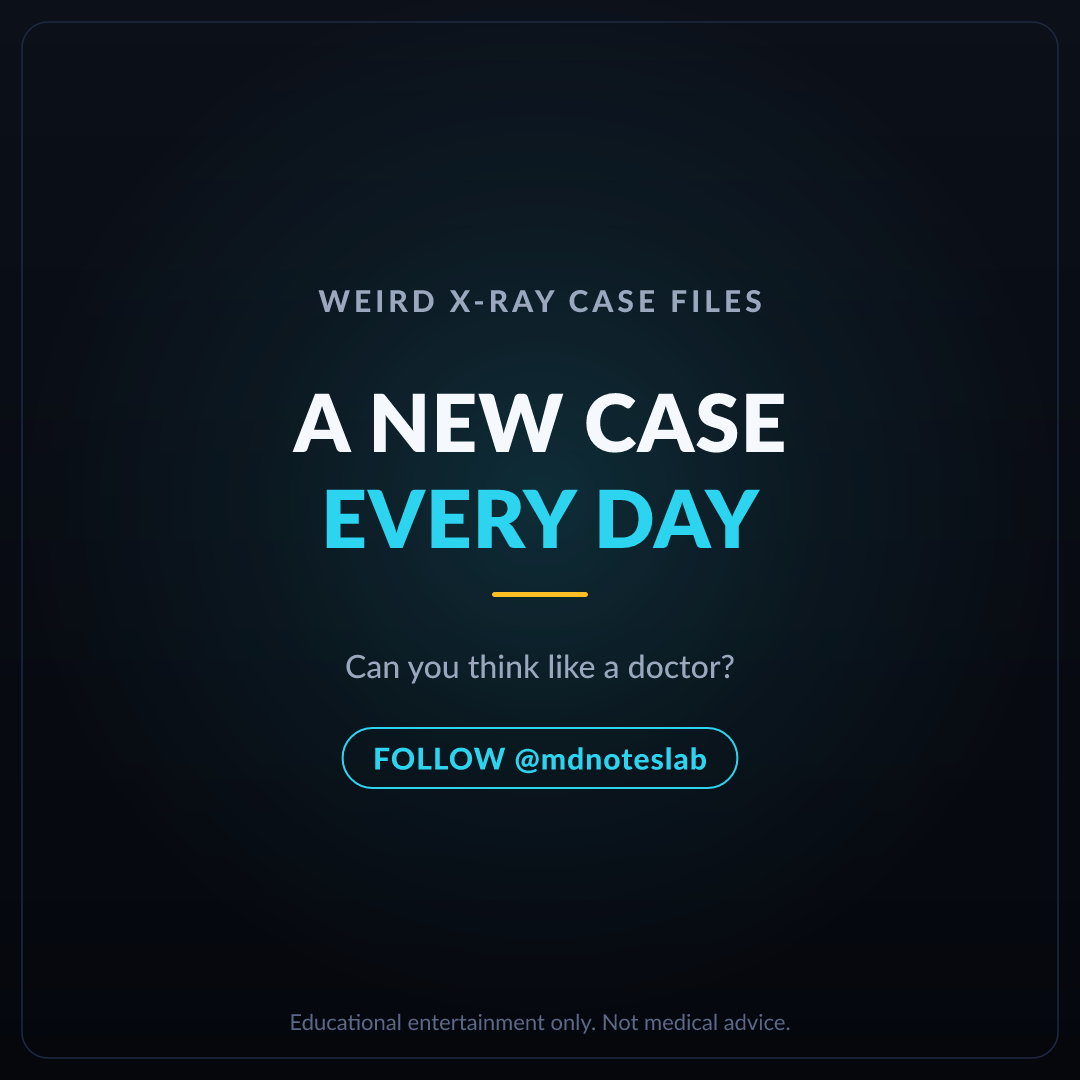
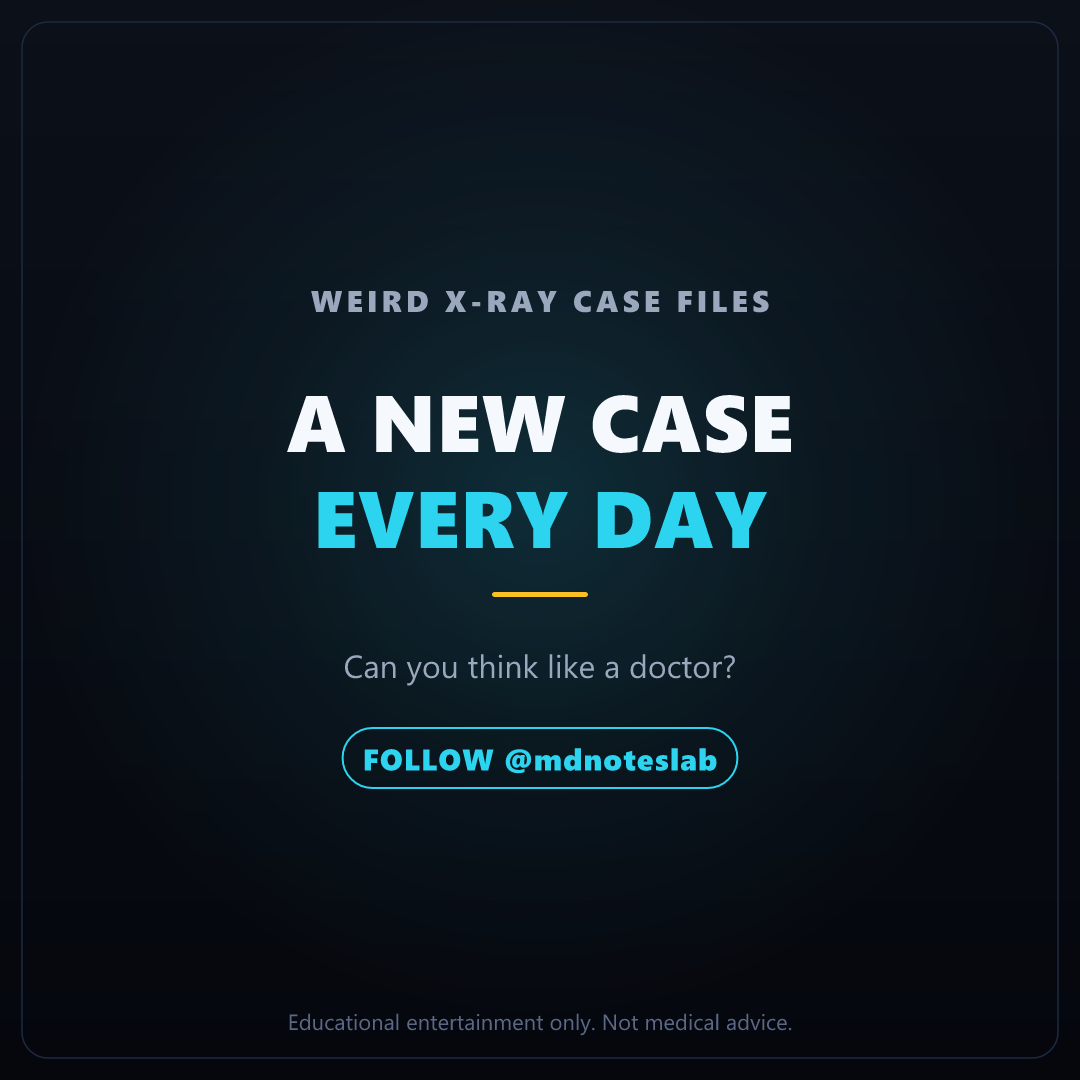
feat: single <=500 answer+spoiler, IG agreed format, renumber, CTA under live answer
- Answer is now ONE reply <=500 chars (keeps the sections that fit; full 4-part
  breakdown stays on the IG slide), posted with the diagnosis+breakdown blurred
  as a SPOILER on future posts.
- IG caption rebuilt to the owner's exact agreed format: blank line between every
  line, no emojis, em-dashes -> hyphen. AI hook + breakdown run through cleanPunct.
- CTA now threads under the LIVE "Answer:" comment (handles the owner posting/pinning
  their own answer and deleting the bot's).
- Renumber: today's posted Ollier case = Case 2 (each case +1).
- Seed used-diagnoses with the full V1/V2/rarest history so generated cases never repeat.
- Tighten the publisher poll to 5 min so posts land closer to 10 PM.

diff --git a/src/captions.ts b/src/captions.ts
@@ -65,51 +65,30 @@ export async function generateThreadsAnswer(c: Case): Promise<string> {
     takeaway = takeaway ?? draft.takeaway;
   }
 
-  // Each section keeps its heading on its own line above the body; sections are
-  // separated by a blank line. The publisher splits this into a <=500-char Threads
-  // chain at post time via splitForThreads (Threads caps each post/reply at 500).
+  // Threads caps each reply at config.answerMaxChars (500), and the answer must be ONE
+  // reply (no chains). Build a single reply that includes as many WHOLE sections as fit
+  // (priority = declaration order); the full 4-section breakdown always lives on the IG
+  // answer slide, which has no length limit.
+  const head = `Answer: ${c.diagnosis}`;
   const sections = [
     `👀 What you see:\n${whatYouSee}`,
     `🦴 Why it matters:\n${whyItMatters}`,
-    `💊 Treatment:\n${treatment}`,
     `📝 Takeaway:\n${takeaway}`,
+    `💊 Treatment:\n${treatment}`,
   ];
-  return [`Answer: ${c.diagnosis}`, ...sections].join("\n\n");
+  const out = [head];
+  let len = head.length;
+  for (const s of sections) {
+    if (len + 2 + s.length > config.answerMaxChars) continue; // skip overflow; a later shorter section may still fit
+    out.push(s);
+    len += 2 + s.length;
+  }
+  return out.join("\n\n");
 }
 
-/**
- * Threads caps each post/reply at config.answerMaxChars (500). A longer answer is posted
- * as a short self-reply CHAIN: split on blank-line (section) boundaries, packing whole
- * sections into each part; a single oversized section is hard-wrapped at a word boundary.
- */
-export function splitForThreads(text: string, max = config.answerMaxChars): string[] {
-  const blocks = text.split(/\n{2,}/).flatMap((b) => (b.length > max ? hardWrap(b, max) : [b]));
-  const parts: string[] = [];
-  let cur = "";
-  for (const b of blocks) {
-    const candidate = cur ? `${cur}\n\n${b}` : b;
-    if (candidate.length > max && cur) {
-      parts.push(cur);
-      cur = b;
-    } else {
-      cur = candidate;
-    }
-  }
-  if (cur) parts.push(cur);
-  return parts.length ? parts : [text.slice(0, max)];
-}
-
-function hardWrap(s: string, max: number): string[] {
-  const out: string[] = [];
-  let r = s.trim();
-  while (r.length > max) {
-    let cut = r.lastIndexOf(" ", max);
-    if (cut <= 0) cut = max;
-    out.push(r.slice(0, cut).trim());
-    r = r.slice(cut).trim();
-  }
-  if (r) out.push(r);
-  return out;
+/** Normalize AI-drafted punctuation: em/en dashes -> hyphen; collapse runs of spaces. */
+export function cleanPunct(s: string): string {
+  return s.replace(/\s*[—–]\s*/g, " - ").replace(/[ \t]{2,}/g, " ").trim();
 }
 
 interface Breakdown {
@@ -144,10 +123,10 @@ async function draftBreakdown(c: Case): Promise<Breakdown> {
   const parsed = parseJsonObject(raw);
 
   return {
-    whatYouSee: str(parsed.whatYouSee),
-    whyItMatters: str(parsed.whyItMatters),
-    treatment: str(parsed.treatment),
-    takeaway: str(parsed.takeaway),
+    whatYouSee: cleanPunct(str(parsed.whatYouSee)),
+    whyItMatters: cleanPunct(str(parsed.whyItMatters)),
+    treatment: cleanPunct(str(parsed.treatment)),
+    takeaway: cleanPunct(str(parsed.takeaway)),
   };
 }
 
@@ -156,31 +135,25 @@ async function draftBreakdown(c: Case): Promise<Breakdown> {
 // ---------------------------------------------------------------------------
 
 export async function generateIgCaption(c: Case): Promise<string> {
-  const igHook = await draftIgHook(c);
+  const hookLines = (await draftIgHook(c))
+    .split("\n")
+    .map((l) => cleanPunct(l))
+    .filter((l) => l.length > 0);
 
+  // Exact owner-agreed IG format: a blank line between EVERY line, no emojis.
   return [
-    `Case File ${pad2(c.number)}. 🩻`,
-    ``,
-    igHook,
-    ``,
+    `Case File ${pad2(c.number)}.`,
+    ...hookLines,
     `A real condition most people have never seen.`,
-    ``,
-    `So before you swipe: A, B, or C? 👉`,
-    ``,
-    `Swipe for the answer then tell me if you got it. 👇`,
-    ``,
+    `So before you swipe: A, B, or C?`,
+    `Swipe for the answer then tell me if you got it.`,
     `New weird X-ray case every single day.`,
-    ``,
-    `Follow along and you'll read scans like a doctor. 🧠`,
-    ``,
+    `Follow along and you'll read scans like a doctor.`,
     `Want the free 5-case starter pack?`,
-    ``,
     `Comment SAMPLE and I'll send it.`,
-    ``,
     `Educational entertainment only. Not medical advice.`,
-    ``,
     `#radiology #xray #spotthediagnosis #medicalmystery #medstudent`,
-  ].join("\n");
+  ].join("\n\n");
 }
 
 async function draftIgHook(c: Case): Promise<string> {
@@ -188,8 +161,8 @@ async function draftIgHook(c: Case): Promise<string> {
     "You write short, punchy Instagram hooks for a daily X-ray diagnosis challenge in the " +
     "voice of @mdnoteslab: curious, a little dramatic, never clickbait-fake. Write 2-3 short " +
     "lines (each its own line). Build intrigue around the case WITHOUT naming the diagnosis. " +
-    "Do NOT use commas: keep each line short or join clauses with 'and'. " +
-    "No hashtags, no emojis, no quotation marks, no labels — just the lines.";
+    "Do NOT use commas (except a genuine list) and NO dashes or em dashes: keep each line short or join clauses with 'and'. " +
+    "No hashtags, no emojis, no quotation marks, no labels. Just the lines.";
 
   const user =
     `Diagnosis (do NOT reveal it): ${c.diagnosis}\n` +

diff --git a/src/index.ts b/src/index.ts
@@ -20,9 +20,8 @@ import {
   generateIgCaption,
   pickCta,
   imagePrompt,
-  splitForThreads,
 } from "./captions.js";
-import { postImage, reply } from "./threads.js";
+import { postImage, reply, getReplies, getMyUsername, type SpoilerEntity } from "./threads.js";
 import { publishCarousel } from "./instagram.js";
 import type { Case } from "./types.js";
 
@@ -216,35 +215,26 @@ async function runPublish(cli: Cli): Promise<void> {
 
     if (answerDue && !stages.answerPostedAt) {
       const answerText = generated.threadsAnswer ?? (await generateThreadsAnswer(c));
-      // Threads caps each reply at 500 chars, so post the answer as a short self-reply
-      // chain (part 1 replies to the challenge, each later part replies to the prior).
-      const answerParts = splitForThreads(answerText);
 
       if (cli.mode === "dry-run") {
-        log(`\n[dry-run] would post ANSWER reply for ${c.folder} in ${answerParts.length} part(s):`);
-        answerParts.forEach((p, i) => log(`  --- part ${i + 1} (${p.length} chars) ---\n${p}`));
-        log("  Now pin the answer (part 1) in the app.");
+        log(`\n[dry-run] would post ANSWER reply (${answerText.length} chars) for ${c.folder}:`);
+        log(answerText);
+        log("  Now pin the answer in the app.");
       } else {
         if (!stages.threadsPostId) {
           log(`  skip ANSWER for ${c.folder}: missing threadsPostId in state`);
           continue;
         }
-        let parentId = stages.threadsPostId;
-        let firstAnswerId = "";
-        for (const part of answerParts) {
-          parentId = await reply(parentId, part);
-          if (!firstAnswerId) firstAnswerId = parentId;
-        }
-        // CTA threads under the LAST answer part so the chain reads in order; the reply
-        // bot detects the public answer from part 1's "Answer:" text independently.
+        // ONE reply (<=500 chars), with the diagnosis + breakdown blurred as a spoiler.
+        const answerCommentId = await reply(stages.threadsPostId, answerText, answerSpoiler(answerText));
         state.setStages(c.folder, {
-          answerCommentId: parentId,
+          answerCommentId,
           answerPostedAt: new Date().toISOString(),
         });
         c.stages = state.getStages(c.folder);
         saveCase(c);
-        log(`posted ANSWER for ${c.folder} in ${answerParts.length} part(s) -> first ${firstAnswerId}, last ${parentId}`);
-        log("  Now pin the answer (part 1) in the app.");
+        log(`posted ANSWER for ${c.folder} -> ${answerCommentId}`);
+        log("  Now pin the answer in the app.");
       }
       continue;
     }
@@ -260,15 +250,20 @@ async function runPublish(cli: Cli): Promise<void> {
         log(`\n[dry-run] would post CTA reply for ${c.folder}:`);
         log(ctaText);
       } else {
-        if (!stages.answerCommentId) {
-          log(`  skip CTA for ${c.folder}: missing answerCommentId in state`);
+        // Thread the CTA under the LIVE "Answer:" comment. The owner may have deleted the
+        // bot's answer and posted/pinned their own, so prefer the answer comment currently
+        // on the post; fall back to the stored id.
+        const liveAnswerId = stages.threadsPostId ? await findOwnerAnswerComment(stages.threadsPostId) : null;
+        const target = liveAnswerId ?? stages.answerCommentId;
+        if (!target) {
+          log(`  skip CTA for ${c.folder}: no answer comment to thread under`);
           continue;
         }
-        await reply(stages.answerCommentId, ctaText);
+        await reply(target, ctaText);
         state.setStages(c.folder, { ctaPostedAt: new Date().toISOString() });
         c.stages = state.getStages(c.folder);
         saveCase(c);
-        log(`posted CTA for ${c.folder}`);
+        log(`posted CTA for ${c.folder} under ${target}${liveAnswerId ? " (live answer)" : ""}`);
       }
     }
   }
@@ -299,6 +294,27 @@ async function tryPublishCarousel(c: Case, igCaption: string, state: State): Pro
 
 function errMsg(err: unknown): string {
   return err instanceof Error ? err.message : String(err);
+}
+
+// Blur everything after the "Answer:" label so the diagnosis + breakdown are a spoiler.
+function answerSpoiler(text: string): SpoilerEntity[] {
+  const m = text.match(/^\s*answer\s*:\s*/i);
+  const offset = m ? m[0].length : 0;
+  const length = text.length - offset;
+  return length > 0 ? [{ entity_type: "SPOILER", offset, length }] : [];
+}
+
+// Find the LIVE "Answer:" comment on a post (the owner may have deleted the bot's answer
+// and posted/pinned their own). Best-effort; returns null on any failure.
+async function findOwnerAnswerComment(postId: string): Promise<string | null> {
+  try {
+    const me = await getMyUsername();
+    const replies = await getReplies(postId);
+    const ans = replies.find((r) => (!me || r.username === me) && /^\s*answer\s*:/i.test(r.text ?? ""));
+    return ans?.id ?? null;
+  } catch {
+    return null;
+  }
 }
 
 async function main(): Promise<void> {

diff --git a/src/threads.ts b/src/threads.ts
@@ -96,12 +96,47 @@ export async function postImage(imageUrl: string, text: string): Promise<string>
   return publish(creationId);
 }
 
-/** Reply (text only) to an existing post/comment. Returns the reply's id. */
-export async function reply(replyToId: string, text: string): Promise<string> {
-  const creationId = await createContainer({
-    media_type: "TEXT",
-    text,
-    reply_to_id: replyToId,
-  });
+/** A character range to blur as a spoiler (Threads text_entities). */
+export interface SpoilerEntity {
+  entity_type: "SPOILER";
+  offset: number;
+  length: number;
+}
+
+/** Reply (text only) to an existing post/comment. Pass spoilers to blur ranges. */
+export async function reply(replyToId: string, text: string, spoilers?: SpoilerEntity[]): Promise<string> {
+  const params: Record<string, string> = { media_type: "TEXT", text, reply_to_id: replyToId };
+  if (spoilers && spoilers.length > 0) params.text_entities = JSON.stringify(spoilers);
+  const creationId = await createContainer(params);
   return publish(creationId);
+}
+
+/** GET a Threads endpoint and return parsed JSON. */
+async function get(path: string, query: Record<string, string>): Promise<any> {
+  const url = new URL(`${config.threadsBase}/${path}`);
+  for (const [k, v] of Object.entries(query)) url.searchParams.set(k, v);
+  const res = await fetch(url, { headers: { Authorization: `Bearer ${requireEnv("THREADS_ACCESS_TOKEN")}` } });
+  const text = await res.text();
+  let body: any;
+  try {
+    body = text ? JSON.parse(text) : {};
+  } catch {
+    body = { raw: text };
+  }
+  if (!res.ok) {
+    throw new Error(`Threads GET ${path} failed (${res.status}): ${body?.error?.message ?? text}`);
+  }
+  return body;
+}
+
+/** The authenticated account's username (to recognize its own replies). */
+export async function getMyUsername(): Promise<string> {
+  const me = await get("me", { fields: "username" });
+  return String(me?.username ?? "");
+}
+
+/** Top-level replies on a post (id + text + username), best-effort single page. */
+export async function getReplies(mediaId: string): Promise<Array<{ id: string; text?: string; username?: string }>> {
+  const body = await get(`${mediaId}/replies`, { fields: "id,text,username", limit: "100" });
+  return body?.data ?? [];
 }